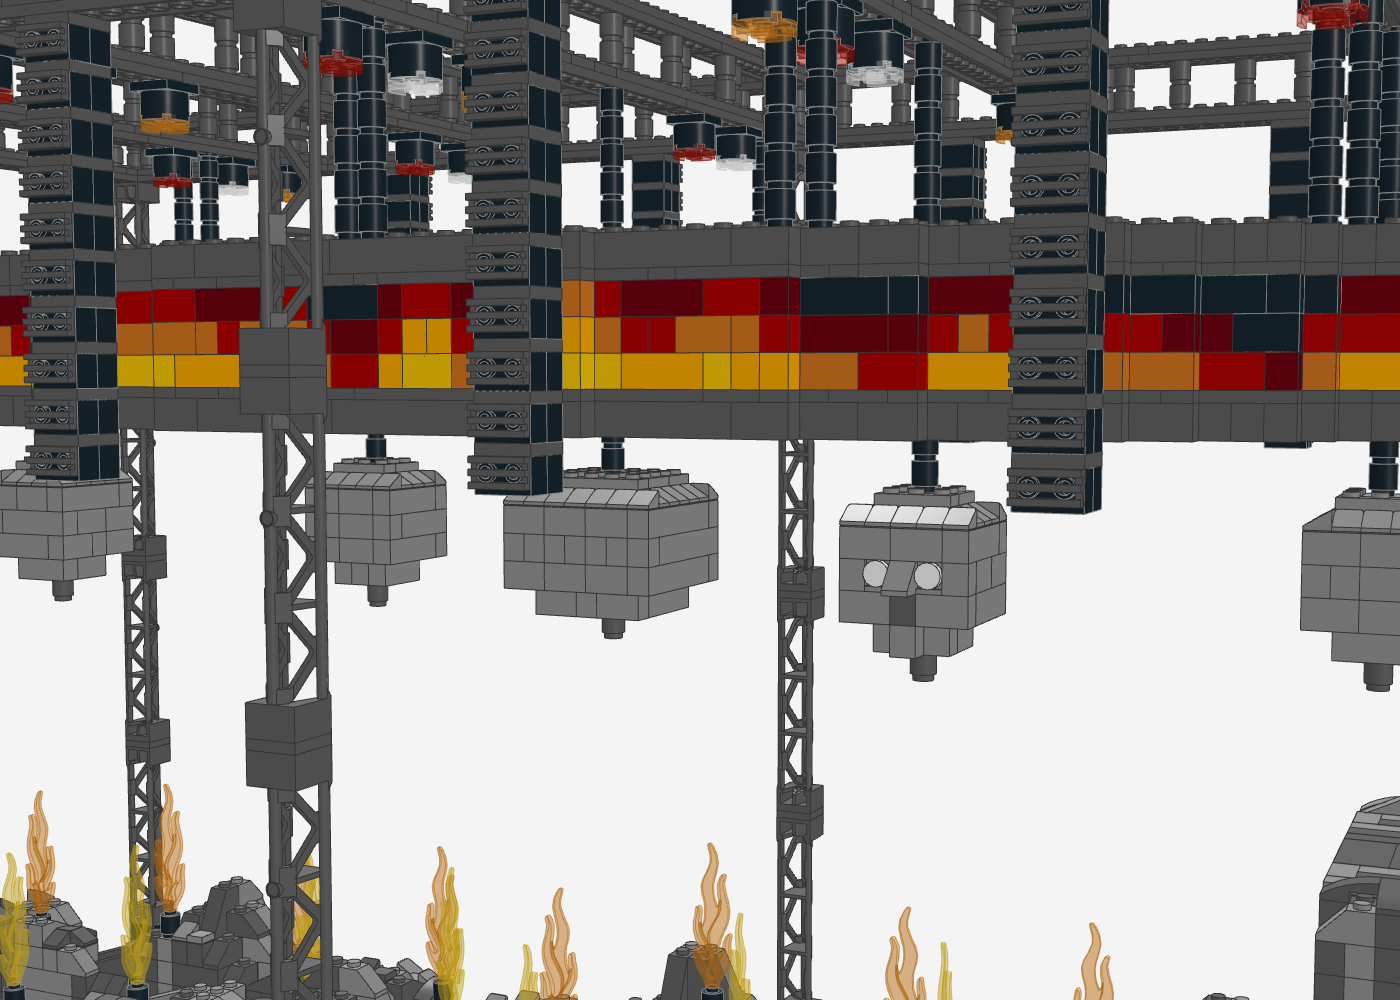
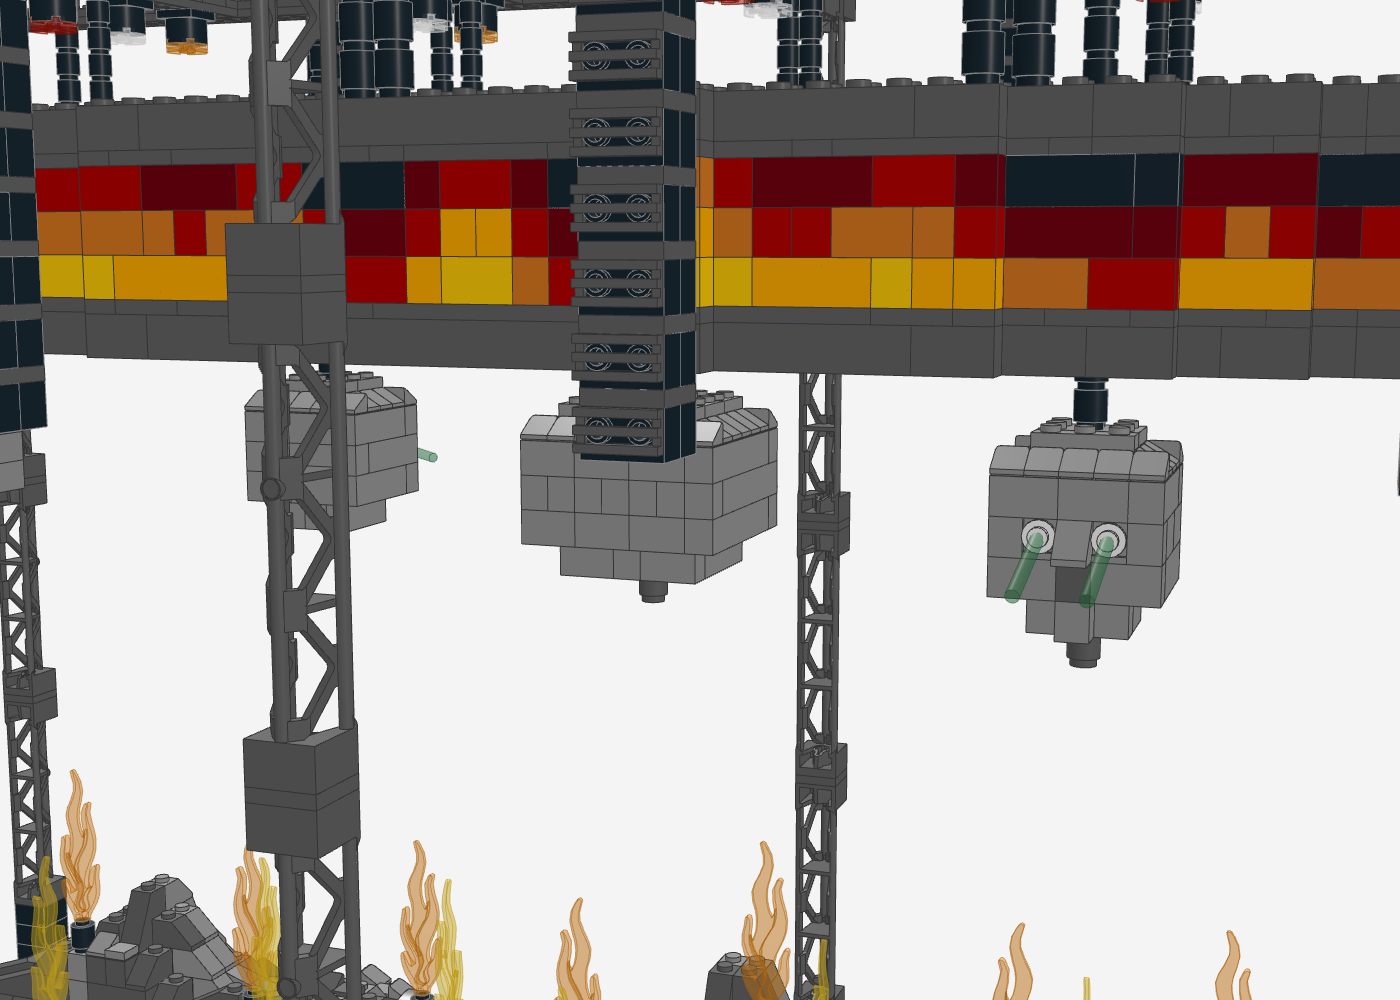
Circus Maximus: laser eyes and Easter Island faces from production research
- Flying heads: eyes now round plates with trans-green 4L bars in the
  hollow studs as crowd-scanning lasers, angled 15 degrees down
- Carved faces on the block and boulders get protruding noses
  (45-degree slope cantilevered one stud), Easter Island style
- README: research notes (Rise Fabrication via RapTV, reviews)
- Checks: 0 disconnected, 0 floating, 0 collisions; 5,945 parts

Claude-Session: https://claude.ai/code/session_01LbUcQnS6PRM2QjVJ9R8YuC

diff --git a/circus-maximus/generate_circus_maximus.py b/circus-maximus/generate_circus_maximus.py
@@ -221,7 +221,8 @@ def bond_layer(sub, cells, lower, ytop, color, max_len=6):
 # 360-Grad-Videoring, dazwischen fliegende Koepfe; getragen von einem Traversen-Raster auf 6 Tuermen.
 COLORS.update({36: ("Trans-Red", 17), 57: ("Trans-Orange", 98), 25: ("Orange", 4),
                191: ("Bright Light Orange", 110)})
-TRED, TORANGE, ORANGE, BLORANGE = 36, 57, 25, 191
+TRED, TORANGE, ORANGE, BLORANGE, TGREEN = 36, 57, 25, 191, 34
+COLORS.update({34: ("Trans-Green", 20)})
 # Farbkonzept nach den Fotos: grauer, verwitterter Stein (Dunkelgrau, Hellgrau im Licht, Schwarz in Spalten),
 # schwarzer Buehnenboden, weisse Glotzaugen der Koepfe als hellster Punkt.
 XMIN, XMAX, ZMIN, ZMAX = -48, 47, -24, 23
@@ -450,6 +451,15 @@ for bx, side in BOULDERS:
     g = min(HF[c] for c in cand) - 3
     if g >= DECK + 1 and all(free_face(c, g, d) for c in cand):
         for c in cand: EYES.append((c, g, d, LBG)); replaced.add((c, g))
+# Nasen (Osterinsel-Koepfe): 45-Grad-Slope mittig unter den Augen, kragt 1 Noppe aus der Wand
+NOSES = []
+for i in range(0, len(EYES) - 1, 2):
+    (c1, g, d, _), (c2, _, _, _) = EYES[i], EYES[i + 1]
+    if c1[1] != c2[1] or abs(c1[0] - c2[0]) < 2: continue
+    for nx in sorted({(c1[0] + c2[0]) // 2, (c1[0] + c2[0] + 1) // 2}):
+        c = (nx, c1[1]); n = (c[0] + d[0], c[1] + d[1])
+        if c in S[g - 1] and (c, g - 1) not in replaced and n not in S[g - 1] and n not in HF and n not in RESERVED:
+            NOSES.append((c, g - 1, d)); replaced.add((c, g - 1))
 
 # ---------------- Slopes an Stufenkanten ----------------
 STEP_PART = {1: "3040b", 2: "4286", 3: "60477"}
@@ -617,6 +627,10 @@ for c, g, d, col in EYES:
     tile = add(Part("06_gesichter", "98138", col, tx, y + 10, tz, 0, {o}, y, y + 20, studs=False, hang=True,
                     extra=[f"1 {col} {fmt(tx)} {fmt(y + 10)} {fmt(tz)} {mat_str(rot)} 98138.dat"]))
     SNOT_LINKS.append((tile, hl))
+for c, g, d in NOSES:
+    y = -BH * (g + 1); n = (c[0] + d[0], c[1] + d[1])
+    add(Part("06_gesichter", "3040b", rock_color(c, g=g), ctr(c[0]), y, ctr(c[1]), ROT_OUT[d], [c, n], y, y + BH,
+             studcells={c}))
 for cells, g, d in MOUTHS:
     y = -BH * (g + 1); rot = ROT_OUT[d]
     cx = sum(ctr(c[0]) for c in cells) / 2; cz = sum(ctr(c[1]) for c in cells) / 2
@@ -833,9 +847,17 @@ for hx, hz, s_, fwd, rope in HEADS:
                 hl = add(Part("09_koepfe", "4070", LBG, ctr(c[0]), yy, ctr(c[1]), ROT_OUT[fwd], {c}, yy, yy + BH, hang=True))
                 tx, tz = ctr(c[0]) + fwd[0] * 14, ctr(c[1]) + fwd[1] * 14
                 o = (c[0] + fwd[0], c[1] + fwd[1])
-                t = add(Part("09_koepfe", "98138", WHITE, tx, yy + 10, tz, 0, {o}, yy, yy + 20, studs=False, hang=True,
-                             extra=[f"1 {WHITE} {fmt(tx)} {fmt(yy + 10)} {fmt(tz)} {mat_str(ROT_OUT[fwd])} 98138.dat"]))
+                t = add(Part("09_koepfe", "6141", WHITE, tx, yy + 10, tz, 0, {o}, yy, yy + 20, studs=False, hang=True,
+                             extra=[f"1 {WHITE} {fmt(tx)} {fmt(yy + 10)} {fmt(tz)} {mat_str(ROT_OUT[fwd])} 6141.dat"]))
                 SNOT_LINKS.append((t, hl))
+                # Laser: Stange 4L steckt in der Hohlnoppe der Rundplatte (legal), zeigt 15 Grad nach unten ins Publikum
+                ca, sa = math.cos(math.radians(15)), math.sin(math.radians(15))
+                dx, dz = fwd
+                M = [[-dz, dx * ca, -dx * sa], [0, sa, ca], [dx, dz * ca, -dz * sa]]
+                bx_, bz_ = ctr(c[0]) + dx * 16, ctr(c[1]) + dz * 16
+                add(Part("09_koepfe", "30374", TGREEN, bx_, yy + 10, bz_, 0, set(), yy, yy + 20, studs=False, hang=True,
+                         extra=[f"1 {TGREEN} {fmt(bx_)} {fmt(yy + 10)} {fmt(bz_)} " +
+                                " ".join(fmt(round(M[i][j], 4)) for i in range(3) for j in range(3)) + " 30374.dat"]))
         if nm == "augen":                                        # Nase: 45-Grad-Slope, faellt nach vorne ab
             m = s_ // 2; c0, c1 = cell((0, m)), cell((0, m + 1))
             add(Part("09_koepfe", "3040b", LBG, ctr(c0[0]), yy, ctr(c0[1]), ROT_OUT[fwd], [c0, c1], yy, yy + BH,
@@ -898,7 +920,7 @@ TITLES = {"01_baseplates": "Grundplatten (2x 48x48)", "02_felsen": "Felswaende u
           "07_videoring": "Ovaler Videoring (360 Grad)", "08_traverse": "Tuerme und Traversen-Raster",
           "09_koepfe": "Fliegende Koepfe", "10_pa": "PA-Haenge", "11_licht": "Moving Heads",
           "12_pyro": "Pyro-Flammen", "13_boden": "Bodenlautsprecher, Uplights, Faesser"}
-print("Buehne:", len(MAT), "Zellen | Ueberhaenge", len(LIPS), "| Augen", len(EYES), "Muender", len(MOUTHS),
+print("Buehne:", len(MAT), "Zellen | Ueberhaenge", len(LIPS), "| Augen", len(EYES), "Nasen", len(NOSES), "Muender", len(MOUTHS),
       "| Videoring", len(SCREEN), "Zellen,", len(HANGERS), "Seile | Scheinwerfer", len(LIGHTS),
       "| Pyro", len(PYRO), "| Subs", len(SUBS), "| Uplights", len(UPLIGHTS))
 

diff --git a/circus-maximus/README.md b/circus-maximus/README.md
@@ -24,7 +24,7 @@ die PA an einem Traversen-Raster. Das Publikum steht rundherum.
 
 ## Kennzahlen
 
-- **5.925 Teile**, 151 Positionen (Teil × Farbe), keine Minifiguren
+- **5.945 Teile**, 152 Positionen (Teil × Farbe), keine Minifiguren
 - **Maßstab** 1,5-fach gegenüber der ersten Version: **Grundfläche** 96 × 48 Noppen, **Höhe** ca. 46 cm
 - **Weg** 84 Noppen lang und 6 breit, Felsblock 18 Steine hoch
 - **Videoring** Oval 81 × 38 Noppen, 5 Bildlagen, an 20 Seilen
@@ -37,7 +37,12 @@ die PA an einem Traversen-Raster. Das Publikum steht rundherum.
 - **Probenfoto in der Arena**: graue Felswände etwa doppelt mannshoch, runder Steinkopf mit großen Augen am
   Traversen-Raster, viele Scheinwerfer und PA-Hänge
 - **Stadionfoto**: hoher Fels mit eingemeißeltem Gesicht, Travis Scott oben auf dem Gipfel
-- Beschreibungen der Produktion: 360°-Videoring, 13 fliegende Köpfe (2–4 m breit), Felsen mit strukturierter Beschichtung
+- Beschreibungen der Produktion (Rise Fabrication über RapTV, Mix Magazine, Konzertkritiken):
+  - Bühne wie eine „Cartoon-Fiebertraum-Version der Osterinsel": Felsen mit Steingesichtern, versteckte Tunnel, Lifts
+  - über 80 m handgeschnitzte Felsen, 13 CNC-gefräste Köpfe (2–4 m breit) aus Schaum mit Stahlgerüst, per Automation geflogen
+  - in den Augen der Köpfe sitzen **Crowd-Scanning-Laser**, die ins Publikum strahlen
+  - „Flammen schießen spontan aus der Felsbühne", Pyro so stark, dass man die Hitze 60 m entfernt spürt
+  - 360°-Videoring, PA-Hänge über dem Screen, Pyro und Laser von Strictly FX
 
 ## Aufbau (Submodelle)
 
@@ -48,12 +53,14 @@ die PA an einem Traversen-Raster. Das Publikum steht rundherum.
    Stufen an beiden Enden
 4. **Plattform auf dem Block** – Performer-Fläche, Rand hellgrau
 5. **Hoher Felsblock mit Durchgang** – 18 Steine hoch; der Weg führt unter 11 Bögen 1 × 8 × 2 hindurch
-6. **Gesichter (SNOT)** – Augen aus Headlight-Steinen mit runden Fliesen auf der Seitennoppe, Mund aus einer
-   Gitterfliese auf einem Stein mit Seitennoppen; am Block beidseitig, an den Findlingen zur Halle
+6. **Gesichter (SNOT)** – Osterinsel-Steingesichter: Augen aus Headlight-Steinen mit runden Fliesen auf der Seitennoppe,
+   vorspringende Nase aus einem 45°-Slope, Mund aus einer Gitterfliese auf einem Stein mit Seitennoppen; am Block beidseitig,
+   an den Findlingen zur Halle
 7. **Ovaler Videoring** – 2 Noppen dick, Feuerwand als Bild (unten Gelb/Orange, nach oben Rot bis Schwarz), zwei Plattenlagen im Verbund, hängt an 20 dünnen Seilen
 8. **Türme und Traversen-Raster** – 6 Gittertürme (je 4 × 95347), Außenrahmen plus 5 Quertraversen
 9. **Fliegende Köpfe** – 5 Köpfe (einer groß in der Mitte): runder Schädel aus Cheese-Slopes, Glotzaugen aus
-   Headlight + weißer Rundfliese, Nase als 45°-Slope, dunkler Mund
+   Headlight + weißer Rundplatte, Nase als 45°-Slope, dunkler Mund; aus jedem Auge strahlt ein **trans-grüner Laser**
+   (Stange 4L in der Hohlnoppe der Rundplatte, 15° nach unten ins Publikum)
 10. **PA-Hänge** – 8 Stränge an den Längstraversen, Lautsprechergitter per SNOT nach außen
 11. **Moving Heads** – 27 Scheinwerfer an den Quertraversen, Linsen abwechselnd trans-rot, trans-orange, trans-klar
 12. **Pyro-Flammen** – 17 Flammen (85959, trans-orange und trans-gelb) in schwarzen Rundstein-Düsen auf den Felskanten und auf dem Block
@@ -69,7 +76,8 @@ die PA an einem Traversen-Raster. Das Publikum steht rundherum.
 | **Rockwork** | Slopes nach Stufenhöhe, Überhänge auf umgedrehten Slopes, erodierte Kanten, Schattierung nach Lichtrichtung |
 | **Helligkeitsstufen** | Grauer Stein in drei Stufen, schwarzer Weg als Kontrast, weiße Augen der Köpfe als hellster Punkt |
 | **Farbe gezielt als Feuer** | Die Bühne bleibt unbunt, alle Farbe ist „Feuer": Videoring-Verlauf Gelb → Orange → Rot → Dunkelrot, Flammen, rote Uplights und Scheinwerfer – warme Farben nur dort, wo Licht und Pyro sind |
-| **Stange in Hohlnoppe** | Die Flammenteile stecken mit ihrer Stange in der Hohlnoppe eines runden Steins – legale Verbindung, Düse und Flamme in einem |
+| **Stange in Hohlnoppe** | Die Flammenteile stecken mit ihrer Stange in der Hohlnoppe eines runden Steins – legale Verbindung, Düse und Flamme in einem. Genauso sitzen die Laser-Stangen in den Rundplatten-Augen der Köpfe |
+| **Komplementärakzent** | Trans-Grün nur für die Laser – als Gegenfarbe zum roten Feuer springt es sofort ins Auge |
 | **Verbund-Plattenlagen** | Der Videoring bekommt zwei Plattenlagen, die per Verbund-Algorithmus alle Steine zu einem Stück verbinden |
 | **Dünne Aufhängung** | Ring, Köpfe und Scheinwerfer hängen an Säulen aus runden Steinen/Platten – liest sich als Seil |
 | **Verband über Treppenecken** | Der ovale Ring ist 2 Noppen dick, damit die Lagen an den Diagonalen verbunden bleiben |

diff --git a/README.md b/README.md
@@ -6,7 +6,7 @@ LEGO-MOCs als LDraw-Dateien (`.mpd`) mit Stückliste und BrickLink-Wanted-List.
 
 | Modell | Teile | Beschreibung |
 |---|---|---|
-| [Circus Maximus (UTOPIA)](circus-maximus/) | 5.925 | Travis Scotts Arena-Bühne auf 2 Baseplates 48×48: gewundener Weg durch graue Felswände, hoher Felsblock mit Gesichtern und Durchgang, 17 Pyro-Flammen, Videoring mit Feuerwand, fliegende Köpfe, farbige Scheinwerfer, Subs und PA |
+| [Circus Maximus (UTOPIA)](circus-maximus/) | 5.945 | Travis Scotts Arena-Bühne auf 2 Baseplates 48×48: gewundener Weg durch graue Felswände, hoher Felsblock mit Gesichtern und Durchgang, 17 Pyro-Flammen, Videoring mit Feuerwand, fliegende Köpfe mit Laser-Augen, Osterinsel-Steingesichter, farbige Scheinwerfer, Subs und PA |
 | [Yeezus Stage](yeezus-stage/) | 2.301 | Mount Yeezus: Fels-Pyramide mit Wendelweg bis zum Gipfel vor dem runden Screen, Laufsteg mit Rampe zur Lower Stage im Publikum, Line-Arrays und Moving Heads – auf 2 Baseplates |
 | [Globe Stage](globe-stage/) | 10.876 | Stadion-Konzertbühne mit gerundeter Erdkugel-Kuppel, echter LED-Beleuchtung (Ring + 24 Scheinwerfer), einem Truss-Ring an Seilen unter einem Dach auf vier schlanken Ecktürmen und dem Album-Cover als Dach-Mosaik |
 
